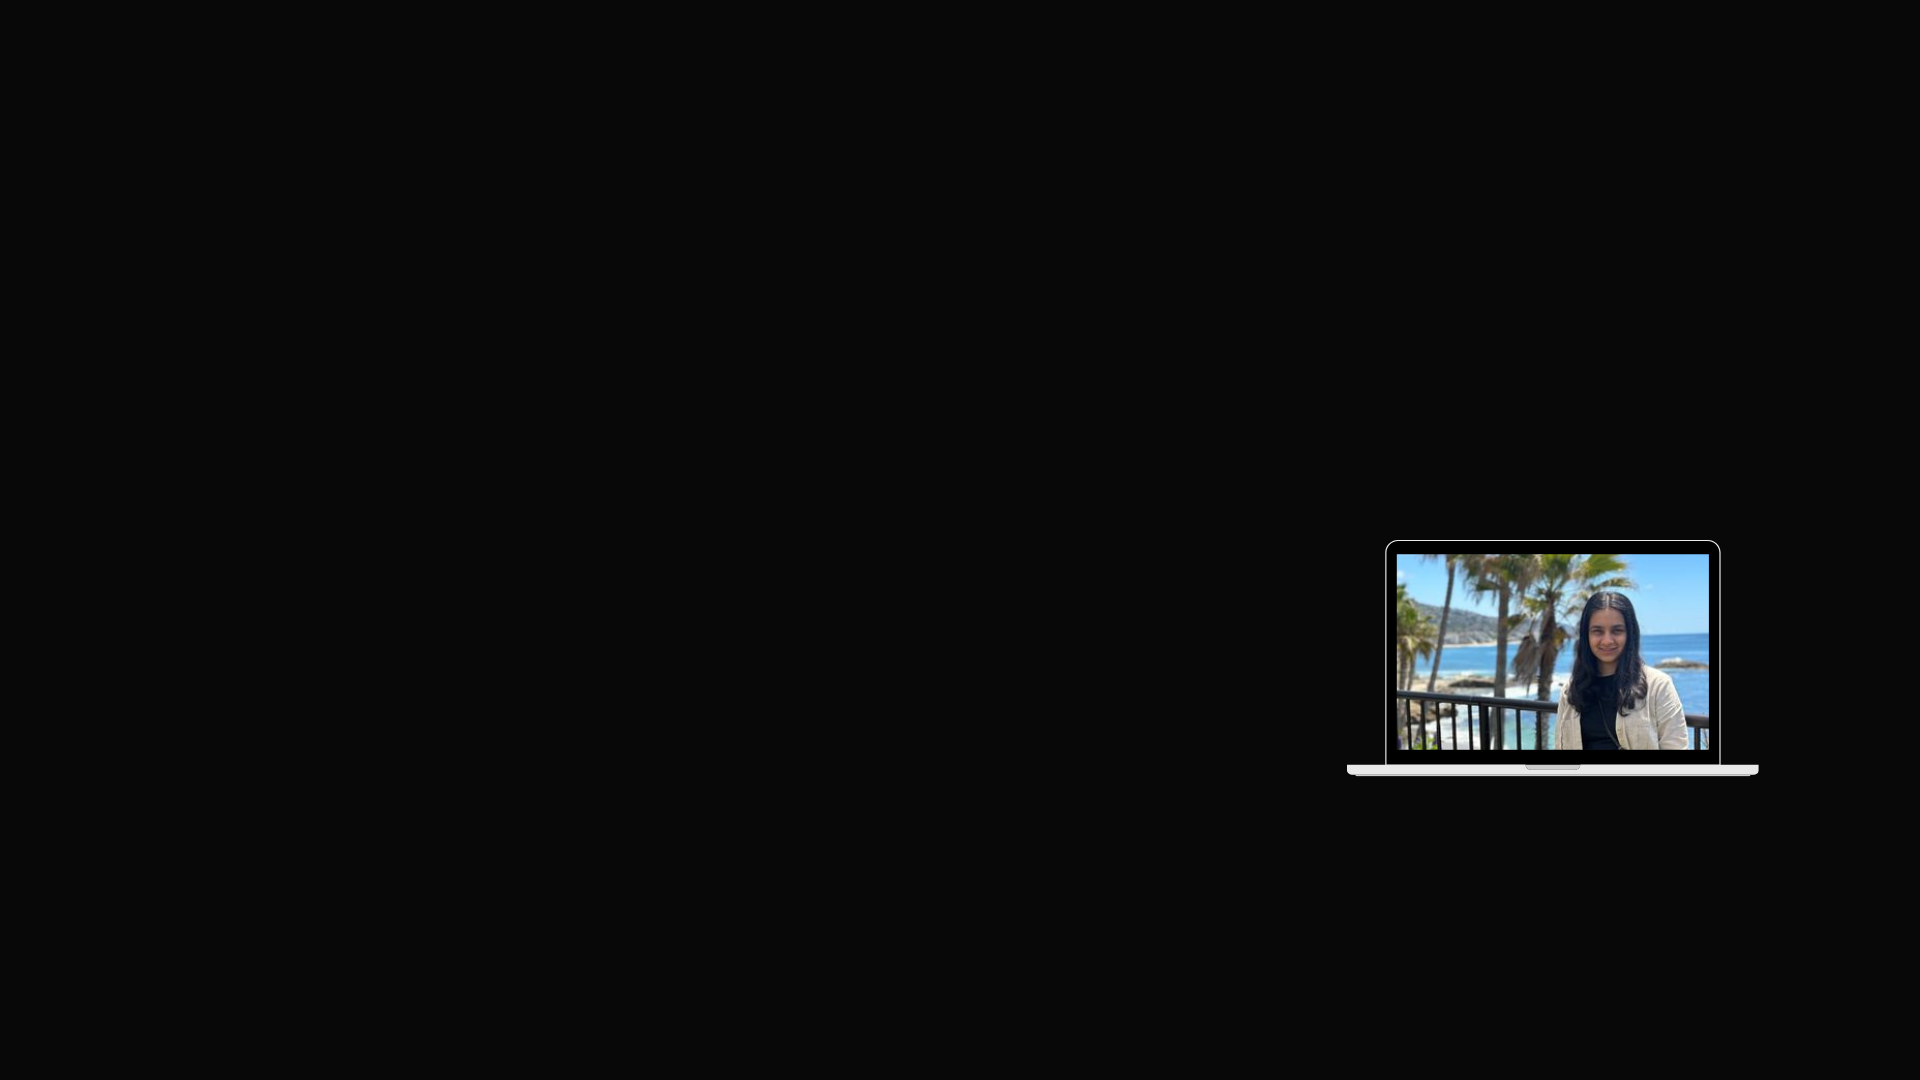
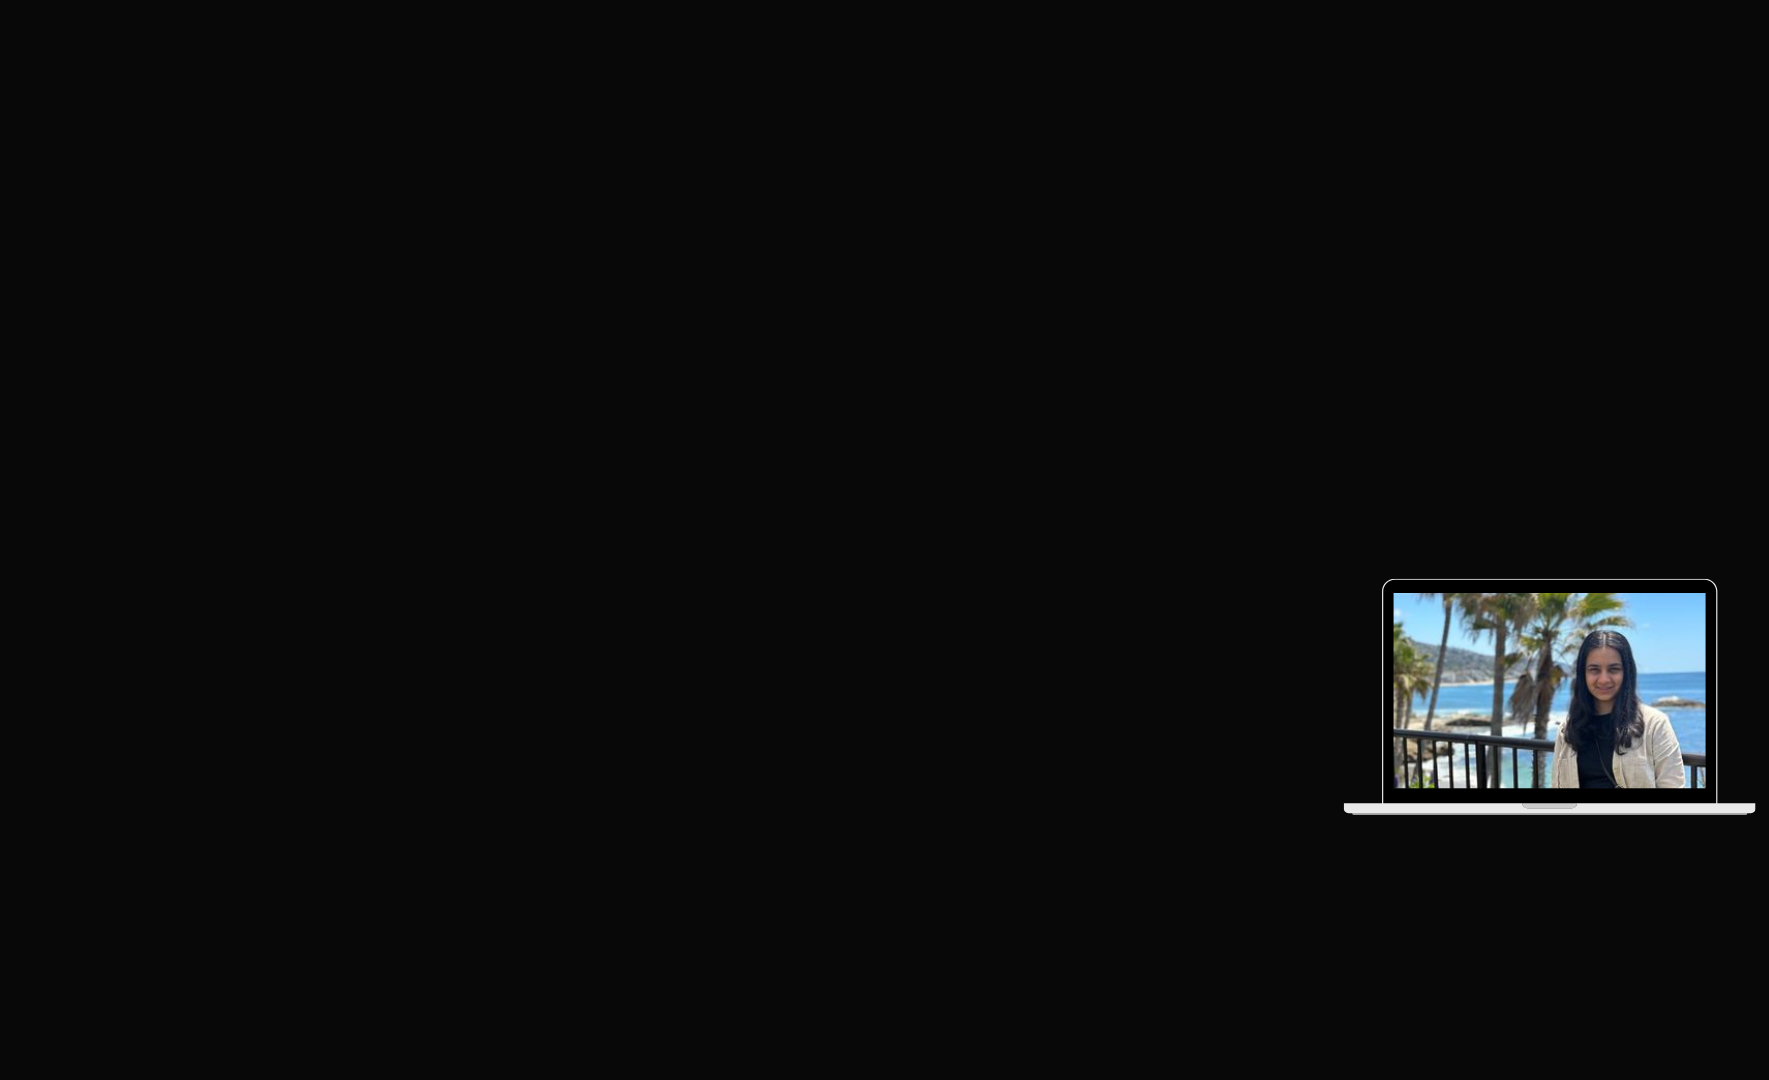
added and commented code for small screens. changed home page image.

Changed region(s): [[0.684, 0.4889, 0.9949, 0.7639]]

diff --git a/index.html b/index.html
@@ -15,24 +15,34 @@
         <div id="header">
             <div class="container">
                 <nav>
+                    
                     <img src="images/logo.png" class="logo">
-                    <ul class="sections">
-                        <li><a href="#home">Home</a></li>
-                        <li><a href="#about">About</a></li>
-                        <li><a href="#experience">Experience</a></li>
-                        <li><a href="#skills">Skills</a></li>
-                        <li><a href="#projects">Projects</a></li>
-                        <li><a href="#contact">Contact</a></li>
-                    </ul>
-                    <div class="icons">
+                    <div class="menu">
+                        <ul class="sections">
+                            <li><a href="#header">Home</a></li>
+                            <li><a href="#about">About</a></li>
+                            <li><a href="#experience">Experience</a></li>
+                            <li><a href="#skills">Skills</a></li>
+                            <li><a href="#projects">Projects</a></li>
+                            <li><a href="#contact">Contact</a></li>
+                            <!-- <i class="fa-solid fa-xmark"></i> -->
+                        </ul>
+                        <!-- <i class="fa-solid fa-bars"></i> -->
+                    </div>
+                    <div class="contact">
                         <a href="mailto:radhika3663@gmail.com"><i class="fa-solid fa-envelope"></i></a>
                         <a href="https://www.linkedin.com/in/radhika-bajaj01/"><i class="fa-brands fa-linkedin"></i></a>
                         <a href="https://github.com/radhikab1"><i class="fa-brands fa-square-github"></i></a>
                     </div>
                 </nav>
-                <div class="header-text">
-                    <p>Software Engineer</p>
-                    <h1>Hi, I'm <span>Radhika Bajaj!</span></h1>
+                <div>
+                <div class="home">
+                    <div class="header-text">
+                        <p>Software Engineer</p>
+                        <h1>Hi, I'm <span>Radhika Bajaj!</span></h1>
+                    </div>
+                    <img src="images/Phone-Background.png" class="photo">
+                </div>
                 </div>
             </div>
         </div>        

diff --git a/style.css b/style.css
@@ -16,11 +16,7 @@ body{
 
 /* ------------Header------------- */
 #header{
-    width: 100%;
-    height: 100vh;
-    background-image: url(images/Background\ Image.png);
-    background-size: cover;
-    background-position: center;
+
 }
 
 .container {
@@ -28,6 +24,8 @@ body{
 }
 
 nav {
+    width: 100%;
+    height: 100%;
     display: flex;
     align-items: center;
     justify-content: space-between;
@@ -39,9 +37,6 @@ nav {
     height: 10%;
 }
 
-.sections{
-    margin-left: -150px;
-}
 .sections li{
     display: inline-block;
     list-style: none;
@@ -71,9 +66,7 @@ nav {
     width: 100%;
 }
 
-
-
-.icons a{
+.contact a{
     display: inline-block;
     list-style: none;
     margin: 10px 20px;
@@ -83,7 +76,7 @@ nav {
     position: relative;
 }
 
-.icons a:hover {
+.contact a:hover {
     color: #7436f2;
 }
 
@@ -93,12 +86,25 @@ nav {
 }
 
 .header-text h1{
-    font-size: 60px;
+    font-size: 55px;
     margin-top: 20px;
 }
 
 .header-text span{
     color:#7436f2;
+}
+
+.home{
+    display: flex;
+    align-items: center;
+    justify-content: space-between;
+    flex-wrap: wrap;
+}
+
+.photo {
+    width: 30%;
+    height: 30%;
+    margin-top: 140px;
 }
 
 /* ------------About------------- */
@@ -420,9 +426,55 @@ form .btn3{
 
 
 /*------------------css for small screens-------------------*/
-@media only screen and (max-width: 600px){
-
+/* nav [class=".fa-solid fa-xmark"]{
+    display: none;
 }
+
+nav [class=".fa-solid fa-bars"]{
+    display: none;
+}
+
+@media only screen and (max-width: 600px){
+    #header{
+        background-image: url(images/Phone-Background.png);
+    }
+
+    .header-text{
+        margin-top: 100%;
+        font-size: 16px;
+    }
+    .header-text h1{
+        font-size: 30px;
+    }
+    nav [class=".fa-solid fa-xmark"]{
+        display: block;
+        font-size: 25px;
+        position: absolute;
+        top: 25px;
+        left: 25px;
+        cursor: pointer;
+    }
+
+    nav [class=".fa-solid fa-bars"]{
+        display: block;
+        font-size: 25px;
+    }
+
+    nav ul{
+        background: #7436f2;
+        position: fixed;
+        top: 0;
+        right: 0;
+        width: 200px;
+        height: 100vh;
+        padding-top: 50px;
+    }
+
+    nav ul li{
+        display: block;
+        margin: 25px;
+    }
+} */
 
 #msg{
     color: #2adcf8;
